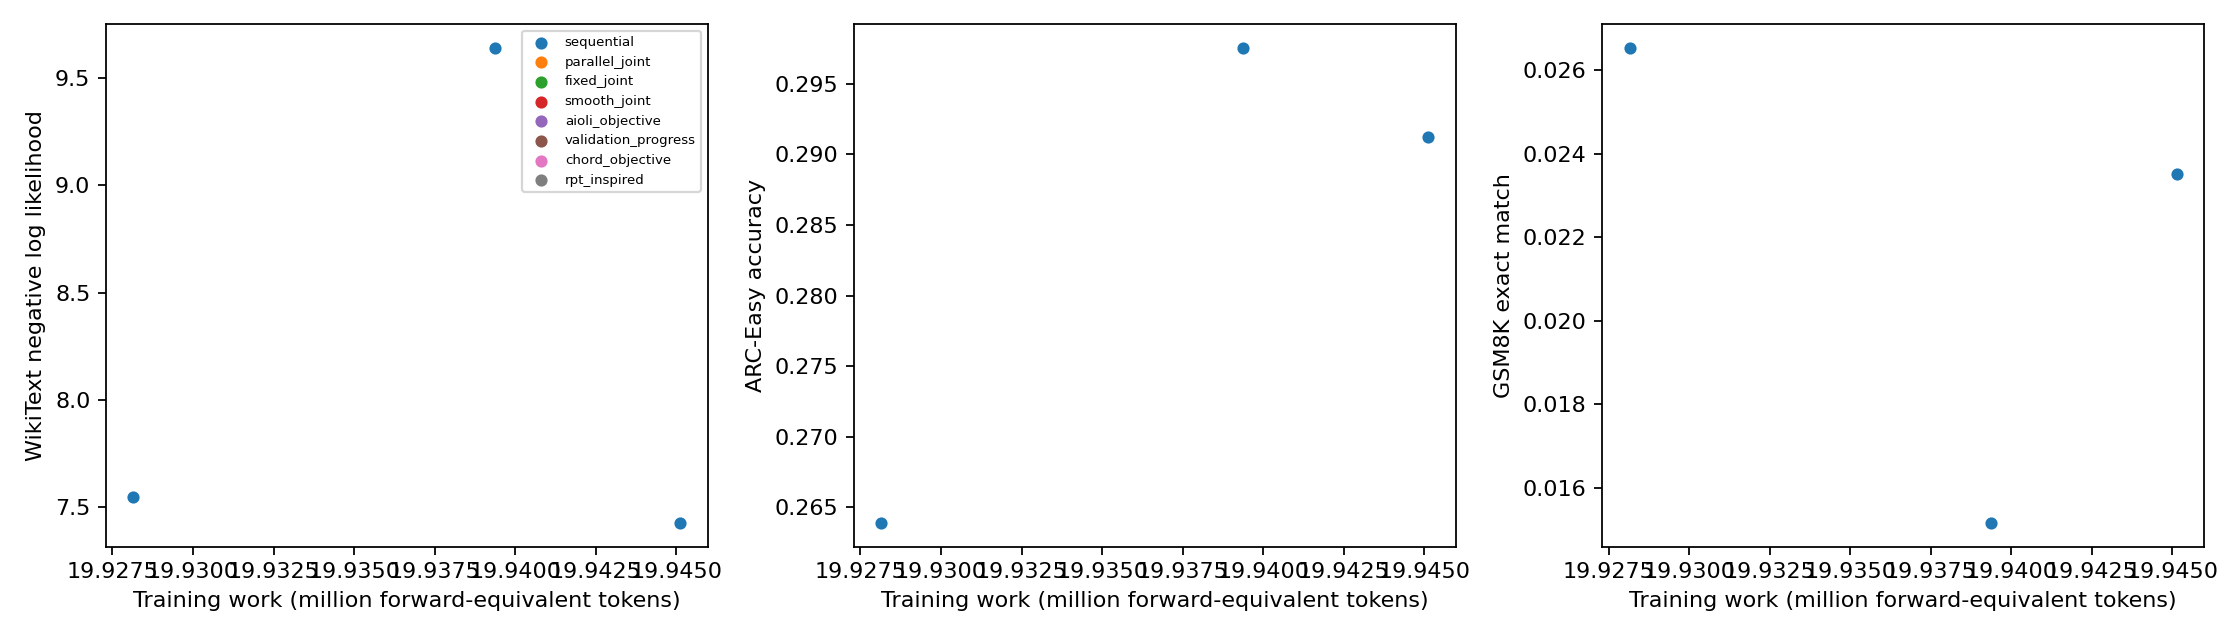
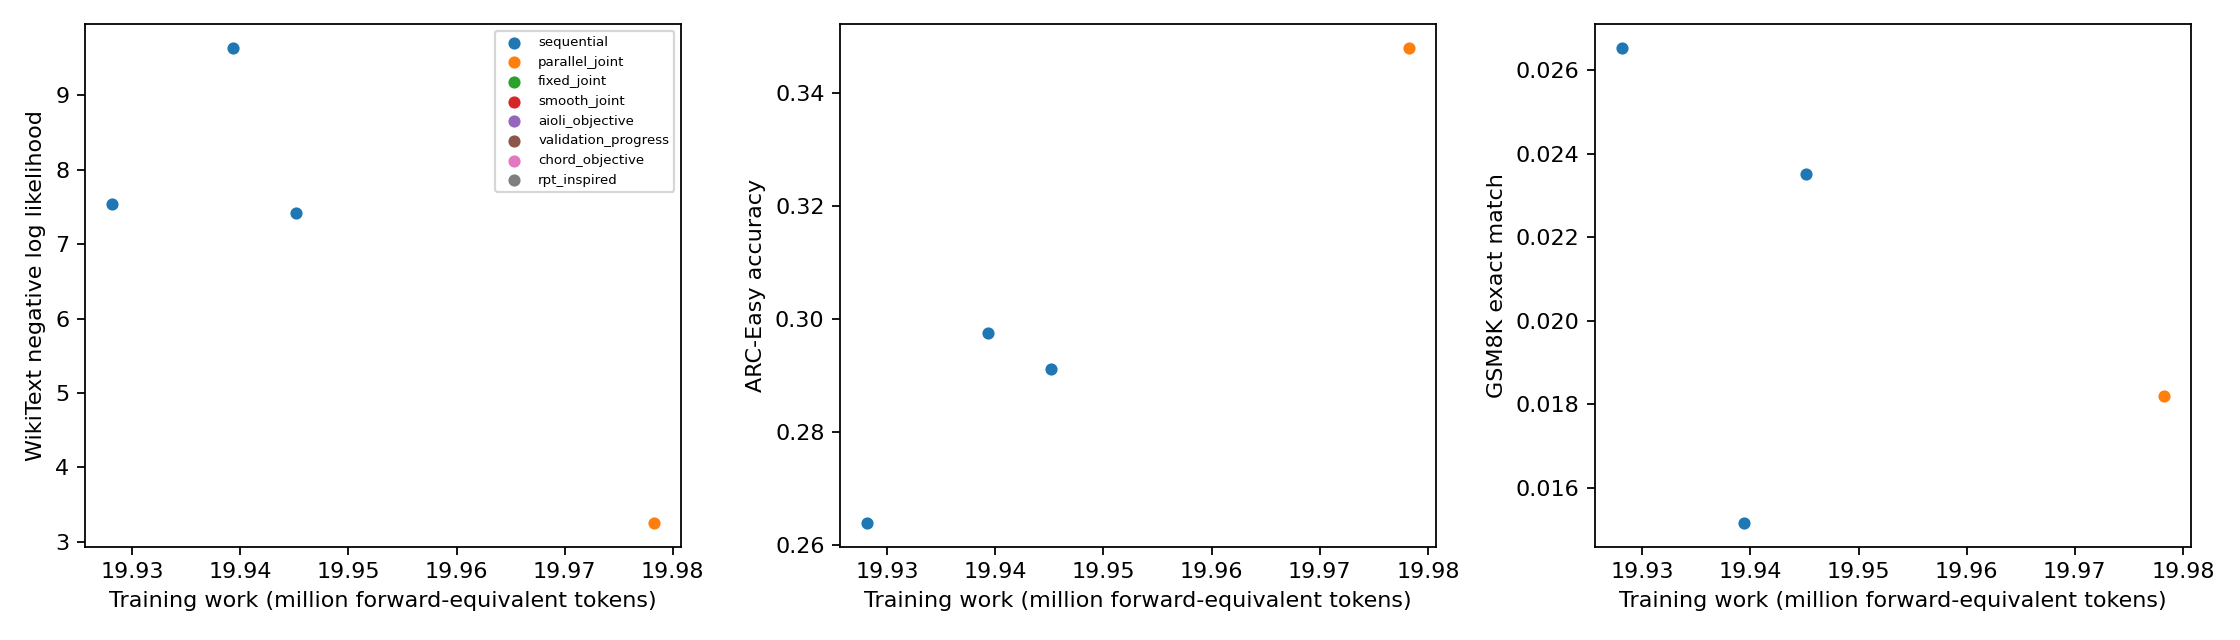
Report verified unified-training pilot progress

diff --git a/experiments/02_early_checkpoint_joint_objectives/results.md b/experiments/02_early_checkpoint_joint_objectives/results.md
@@ -7,7 +7,7 @@
 | sequential | 0 | complete | 19.939 | 0.2976 [0.2795, 0.3163] | 0.0152 [0.0098, 0.0233] | 9.6419 [9.5743, 9.7074] | 0.5312 [0.4701, 0.5915] / 0.3906 [0.3329, 0.4516] |
 | sequential | 1 | complete | 19.928 | 0.2639 [0.2466, 0.2820] | 0.0265 [0.0191, 0.0367] | 7.5458 [7.4961, 7.5963] | 0.5781 [0.5169, 0.6370] / 0.5000 [0.4392, 0.5608] |
 | sequential | 2 | complete | 19.945 | 0.2912 [0.2733, 0.3098] | 0.0235 [0.0166, 0.0332] | 7.4249 [7.3635, 7.4874] | 0.5078 [0.4469, 0.5685] / 0.4414 [0.3819, 0.5027] |
-| parallel_joint | 0 | pending | unavailable | unavailable | unavailable | unavailable | unavailable |
+| parallel_joint | 0 | complete | 19.978 | 0.3481 [0.3292, 0.3674] | 0.0182 [0.0123, 0.0269] | 3.2496 [3.2193, 3.2791] | 0.6484 [0.5881, 0.7043] / 0.6016 [0.5405, 0.6596] |
 | parallel_joint | 1 | pending | unavailable | unavailable | unavailable | unavailable | unavailable |
 | parallel_joint | 2 | pending | unavailable | unavailable | unavailable | unavailable | unavailable |
 | fixed_joint | 0 | pending | unavailable | unavailable | unavailable | unavailable | unavailable |
@@ -33,7 +33,7 @@ NLL = negative log likelihood; preference raw ordering is the preference endpoin
 
 Intervals: 95% Wilson binary-item score, conditional on each trained model; p-val=n/a (no hypothesis test). Three seeds do not establish universal superiority. Aioli, CHORD (Controllable Harmonization of On- and Off-Policy Reinforcement Learning via Dynamic Weighting), and RPT (Reinforcement Pre-Training) are declared adaptations; exact CHERRY-RL identity remains unresolved.
 
-Complete: 3/24. See `expt_v1/PROTOCOL.md` and the program review reconciliation.
+Complete: 4/24. See `expt_v1/PROTOCOL.md` and the program review reconciliation.
 
 Seed uncertainty, two-stage seed/item intervals, initial-checkpoint changes and all paired comparisons: `expt_v1/analysis.json`. Missing trained seeds remain missing with separate accuracy sensitivity bounds. p-val=n/a throughout; no formal superiority verdict.
 

diff --git a/experiments/00_program/FINAL_STATUS.md b/experiments/00_program/FINAL_STATUS.md
@@ -1,6 +1,6 @@
 # Full-program status
 
-Verified cells: 27/48; failed: 0; interrupted: 0; pending: 21; unstarted at global bound: 0.
+Verified cells: 28/48; failed: 0; interrupted: 0; pending: 20; unstarted at global bound: 0.
 
 Full-program execution is incomplete. Required plan and implementation findings are reconciled; see acceptance.json.
 Results and uncertainty are in each experiment folder; no universal-superiority claim.
